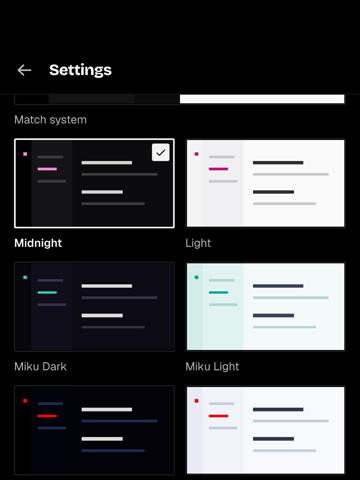
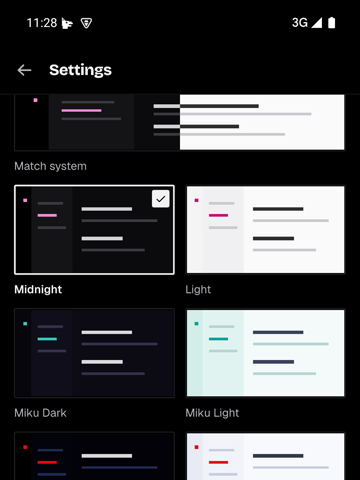
docs(desktop-native): 📝 record text size and bars for the qt settings

diff --git a/desktop-native/mobile/README.md b/desktop-native/mobile/README.md
@@ -27,14 +27,15 @@ that feel off, each with a known fix.
 - **Shared, one copy:** the `yap-ui` crate (`desktop-native/rust/crates/yap-ui`),
   which both apps link. It holds the `Yap.Ui` QML module (`Theme`,
   `ShellState`, `MessageDelegate`, `TreeRow`, `ServerIcon` and the
-  components they use: 36 files, 5,248 lines), the domain objects (`Session`, `Nav`,
+  components they use: 36 files, 5,408 lines), the domain objects (`Session`, `Nav`,
   `Chat`, `Voice`, `Profile` and the portable singletons such as `Admin`,
   `Emoji`, `Extras`, `Invites`, `Panels`), all 13 list models, the
   GUI-thread registry, the core's runtime and gateway, and the portable C++
   (`AnimatedPicture`, the icon and dither image providers). Together with
   the core, that is everything a row shows and every rule behind it.
-- **Per platform:** about 5,650 lines of QML (shell, pager, pages,
-  composer, upload tray, image viewer, the sheets and message actions, and
+- **Per platform:** about 7,400 lines of QML (shell, pager, pages,
+  composer, upload tray, image viewer, the sheets and message actions,
+  Settings and Friends, and
   the mobile side of four seams), about 720 lines of Rust (the app's
   `Platform`: TLS client, realtime, token store, and the HTTP behind Qt's
   own loads), and about 1,650 lines of C++/Java: the shim for back,
@@ -64,15 +65,15 @@ for any one surface (for example a call screen) if Qt ever falls short there.
 
 ## What is shared, what is per platform
 
-| Layer                         | Shared with desktop (unchanged)                                                                                                                                                                                                                                                                                                                       | Per platform                                                                                                                                                                                                                                                                                      |
-| ----------------------------- | ----------------------------------------------------------------------------------------------------------------------------------------------------------------------------------------------------------------------------------------------------------------------------------------------------------------------------------------------------- | ------------------------------------------------------------------------------------------------------------------------------------------------------------------------------------------------------------------------------------------------------------------------------------------------- |
-| Core                          | `yap-core`, `yap-cache`, `yap-realtime`, `yap-protocol`, `yap-anim`; `gateway.rs`                                                                                                                                                                                                                                                                     | TLS backend (rustls on mobile), the token store (an app-private file; Keystore in a release), the config and data folder handed in (`yap_mobile_init`)                                                                                                                                            |
-| Models and bridge objects     | yap-ui: every `QAbstractListModel` (servers, tree, messages, members, DMs, …), `Session`/`Nav`/`Chat`/`Voice`/`Profile` and the portable singletons, one definition for both apps; the registry and the order view updates apply in                                                                                                                   | The app's `Platform` (`yap_ui::platform`): HTTP client, realtime, token store, start and quit hooks, the view updates only it shows (toasts, sounds, badge), uploads, share sources, video. Desktop: `rust/src/native.rs`; mobile: `qt/rust/src/client.rs`                                        |
-| Theme tokens                  | `Theme.qml` (palettes, type roles, motion, spacing), `ShellState.qml`                                                                                                                                                                                                                                                                                 | Which theme (Settings' choice; Match system, the default, follows the light/dark mode), the text size factor (`Prefs`), and the input flags the shell binds: `Theme.touch`, `Theme.hoverUi`, `Theme.textScale`                                                                                                                                             |
-| Components and list delegates | `Yap.Ui`: `MessageDelegate` (the message renderer: grouping, replies, reactions, mention and pending rows, Markdown via Qt rich text), `TreeRow`, `ChannelRow`, `CategoryLabel`, `MemberRow`, `ServerIcon`, `RailPill`, `CountBadge`, `Avatar`, `DisplayName`, `Icon`, `IconKey`, `KitButton`, `Led`, `Spinner`, `LinkText`, `LazyPopup`, `Tooltip` … | Each app's side of the four seams the shared files import from `Yap.Platform`, with the same API: `EmbedCard`, `MessageMedia`, `VoiceStatusLine`, `VoiceStreamHoverCard` (mobile: `qt/rust/qml/seams`; desktop: its own `com.yap.native` files)                                                   |
-| C++                           | yap-ui `cpp/`: `AnimatedPicture` and `ViewportWatch` (GIF/APNG/WebP through yap-anim), the `icon` and `dither` image providers, `yap_ui_register(engine)`; `yap_ui.cmake` compiles them in each app's target                                                                                                                                          | `Native` (the platform shim) and `main.cpp`. The Windows C++ (window chrome, toasts, WebView2, Media Foundation, D3D11 video) stays desktop-only                                                                                                                                                  |
+| Layer                         | Shared with desktop (unchanged)                                                                                                                                                                                                                                                                                                                       | Per platform                                                                                                                                                                                                                                                                                                     |
+| ----------------------------- | ----------------------------------------------------------------------------------------------------------------------------------------------------------------------------------------------------------------------------------------------------------------------------------------------------------------------------------------------------- | ---------------------------------------------------------------------------------------------------------------------------------------------------------------------------------------------------------------------------------------------------------------------------------------------------------------- |
+| Core                          | `yap-core`, `yap-cache`, `yap-realtime`, `yap-protocol`, `yap-anim`; `gateway.rs`                                                                                                                                                                                                                                                                     | TLS backend (rustls on mobile), the token store (an app-private file; Keystore in a release), the config and data folder handed in (`yap_mobile_init`)                                                                                                                                                           |
+| Models and bridge objects     | yap-ui: every `QAbstractListModel` (servers, tree, messages, members, DMs, …), `Session`/`Nav`/`Chat`/`Voice`/`Profile` and the portable singletons, one definition for both apps; the registry and the order view updates apply in                                                                                                                   | The app's `Platform` (`yap_ui::platform`): HTTP client, realtime, token store, start and quit hooks, the view updates only it shows (toasts, sounds, badge), uploads, share sources, video. Desktop: `rust/src/native.rs`; mobile: `qt/rust/src/client.rs`                                                       |
+| Theme tokens                  | `Theme.qml` (palettes, type roles, motion, spacing), `ShellState.qml`                                                                                                                                                                                                                                                                                 | Which theme (Settings' choice; Match system, the default, follows the light/dark mode), the text size factor (`Prefs`), and the input flags the shell binds: `Theme.touch`, `Theme.hoverUi`, `Theme.textScale`                                                                                                   |
+| Components and list delegates | `Yap.Ui`: `MessageDelegate` (the message renderer: grouping, replies, reactions, mention and pending rows, Markdown via Qt rich text), `TreeRow`, `ChannelRow`, `CategoryLabel`, `MemberRow`, `ServerIcon`, `RailPill`, `CountBadge`, `Avatar`, `DisplayName`, `Icon`, `IconKey`, `KitButton`, `Led`, `Spinner`, `LinkText`, `LazyPopup`, `Tooltip` … | Each app's side of the four seams the shared files import from `Yap.Platform`, with the same API: `EmbedCard`, `MessageMedia`, `VoiceStatusLine`, `VoiceStreamHoverCard` (mobile: `qt/rust/qml/seams`; desktop: its own `com.yap.native` files)                                                                  |
+| C++                           | yap-ui `cpp/`: `AnimatedPicture` and `ViewportWatch` (GIF/APNG/WebP through yap-anim), the `icon` and `dither` image providers, `yap_ui_register(engine)`; `yap_ui.cmake` compiles them in each app's target                                                                                                                                          | `Native` (the platform shim) and `main.cpp`. The Windows C++ (window chrome, toasts, WebView2, Media Foundation, D3D11 video) stays desktop-only                                                                                                                                                                 |
 | Page layouts and navigation   | `ConnectionStrip`, `UnreadBanner`, `PresenceAvatar`, `GameLine` (moved into `Yap.Ui` for the phone pages; the desktop uses the same files)                                                                                                                                                                                                            | The pager and its pages (`Pager`, `DrawerPage`, `DmsPane`, `ChatPage`, `MembersPage`), the stacked `ProfilePage`, `SettingsPage` and `FriendsPage`, phone-sized rows where the desktop's are pointer-sized (`DmItem`, `MemberItem`, `AccountBar`), `PlatformList` (the platform's scroll feel). See "Navigation" |
-| Shell                         | —                                                                                                                                                                                                                                                                                                                                                     | `Main.qml` (edge to edge, phases, foreground/background), the Android manifest, the Java shim                                                                                                                                                                                                     |
+| Shell                         | —                                                                                                                                                                                                                                                                                                                                                     | `Main.qml` (edge to edge, phases, foreground/background), the Android manifest, the Java shim                                                                                                                                                                                                                    |
 
 ### How the sharing is built
 
@@ -117,7 +118,7 @@ One crate, one QML module, two consumers. No file is copied:
 | IME action, autocorrect           | **Native**: suggestions, auto-capitals and autocorrect come through Qt's input connection. `EnterKey.type` sets the action for a single-line field | Nothing for the action: Android gives a multi-line field no Send action, so the soft keyboard's Enter adds a line and the send key sends. With a hardware keyboard Enter sends and Shift+Enter adds a line                                                                                                                                                                                                                                 | Verified: suggestions, Enter adding a line, the send key. Not checked with a hardware keyboard                                                       |
 | Scroll physics, overscroll, fling | **Partly.** Qt's own rubber band, close to iOS's bounce. No Android stretch; fling speed and friction are Qt's defaults                            | `PlatformList`: the Android 12+ stretch emulated from `verticalOvershoot` (content stays put, scales from the far edge); fling speed and a friction matching `OverScroller`'s spline from `ViewConfiguration` via the shim                                                                                                                                                                                                                 | Fling verified by the scroll runs. The stretch is implemented but not yet compared frame by frame                                                    |
 | Haptics                           | **No.**                                                                                                                                            | Shim: `View.performHapticFeedback`. The policy: a long-press tick when the message sheet opens, a tick at the swipe-to-reply threshold and for a reaction, confirm on a confirmed delete, reject on a failed send. Nothing on a tap that navigates or a plain send (the pager ticks when a pan lands on another page)                                                                                                                      | Wired; the emulator has no vibrator to confirm it                                                                                                    |
-| System font, dynamic text size    | **Partly.** Qt's default font is the system's; explicit `pixelSize`s ignore the system text size                                                   | Shim reads `Configuration.fontScale` (`Native.fontScale`); `Main.qml` binds `Theme.textScale` to it (0.85 to 2.0). Every type role, its tracking and its line box scale with it, and the px sizes in the core's rich text; icons, avatars and hit areas do not                                                                                                                                                                             | Verified at 1.3: names, messages, times, rows and sheets scale and nothing clips. Read when the app returns to the front, not live                   |
+| System font, dynamic text size    | **Partly.** Qt's default font is the system's; explicit `pixelSize`s ignore the system text size                                                   | Shim reads `Configuration.fontScale` (`Native.fontScale`); `Main.qml` binds `Theme.textScale` to it times Settings' text size factor (0.85 to 2.0). Every type role, its tracking and its line box scale with it, and the px sizes in the core's rich text; icons, avatars and hit areas do not                                                                                                                                            | Verified at 1.3: names, messages, times, rows and sheets scale and nothing clips. Read when the app returns to the front, not live                   |
 | Dark mode, Material You           | **Native**: `Application.styleHints.colorScheme`, live                                                                                             | `Theme.themeId` follows it. The shim reads Material You's `system_accent1` (`Native.accent`)                                                                                                                                                                                                                                                                                                                                               | Light/dark verified. The accent is not used: Yap's themes are brand palettes (owner decision)                                                        |
 | Share sheet                       | **No** (Qt has `QDesktopServices` for URLs only)                                                                                                   | Shim: `ACTION_SEND` chooser, from the message sheet's Share                                                                                                                                                                                                                                                                                                                                                                                | Verified: the system sheet opens with the message's text                                                                                             |
 | Photo picker                      | **No.** Qt's `FileDialog` opens the documents UI                                                                                                   | Shim: the system photo picker (`ACTION_PICK_IMAGES`, no permission) on 13+, `GET_CONTENT` on images and videos before; each item copied into the cache for the core's path-based upload                                                                                                                                                                                                                                                    | Verified on API 35: three pictures picked, uploaded with progress, one retried, sent                                                                 |
@@ -579,12 +580,10 @@ desktop's objects with phone list layouts:
   `Main.qml` maps `system` to the light or dark mode, live. _Text size_: a
   factor (0.85, 1, 1.15, 1.3) over the system's font scale, kept in the
   app's QSettings (`Prefs.textFactor`); `Main.qml` binds
-  `Theme.textScale` to `clamp(Native.fontScale * factor, 0.85, 2)` when the
-  shared `Theme` has that property, and the section's sample is drawn at
-  the scale either way. _Notifications_ shows only when the shim exposes
-  `Native.notificationsEnabled` (the push work), and Text size only when
-  the shared `Theme` has `textScale` (the touch tokens' work); until then
-  the factor is kept but nothing shows it. _Devices_: the account's
+  `Theme.textScale` to `clamp(Native.fontScale * factor, 0.85, 2)`, and the
+  section's sample is a message row at that size. _Notifications_ shows
+  only when the shim exposes `Native.notificationsEnabled` (the push
+  work). _Devices_: the account's
   sessions (`Settings.loadSessions`); another device signs out after a
   confirm (`Extras.revokeSession`). _About_: the APK's version name, the
   licence and the privacy policy. _Sign out_ asks first, in place.
@@ -594,8 +593,9 @@ desktop's objects with phone list layouts:
   username. A friend's row opens the DM; anyone else's opens the profile.
   Requests carry Accept and Ignore or Cancel, a friend's more key opens
   Profile, Remove and Block in the row, a blocked row has Unblock. Remove,
-  Ignore, Cancel and Block confirm in place (`InlineConfirm`) until the
-  shared bottom sheet lands.
+  Ignore, Cancel and Block confirm in place (`InlineConfirm`, the desktop's
+  ConfirmStrip at phone size), where the request's progress and any
+  failure show; `ConfirmSheet` closes before the request answers.
 
 `SettingSwitch` and `TabRule` moved from the desktop's components into
 `Yap.Ui` for these pages; the desktop uses the same files.
@@ -609,19 +609,16 @@ the friendship), removed after the confirm, then a request sent from the
 phone's Add friend and accepted by the peer arriving live; Message opening
 the DM; Block from a friend's row (the account's list showed the block)
 and Unblock from the Blocked tab; Sign out returning to sign-in and a new
-device code signing in again. The factor was set and kept across a
-restart on a build where the section still showed. Not verified: the text
-factor's effect across the app (the shared `Theme.textScale` is not on
-main yet), the Notifications section (no push shim yet), signing out
-another device (the account had one session), and the licence links
-opening a browser. Known: the status
-bar's icons do not follow a theme that differs from the system's mode
-(dark icons on Midnight under a light system) until the shim's
-`Native.lightBars` lands; `Main.qml` binds it when present.
+device code signing in again; Larger scaling the chat's names, messages
+and times to 1.3 (the system at 1.0), and the status bar's icons turning
+light on Midnight under a light system. Not verified: the Notifications
+section (no push shim yet), signing out another device (the account had
+one session), and the licence links opening a browser.
 
 <p>
 <img src="docs/qt-settings.png" width="180" alt="Qt: Settings, account and status">
 <img src="docs/qt-settings-theme.png" width="180" alt="Qt: Settings in Midnight, the theme thumbnails">
+<img src="docs/qt-settings-larger.png" width="180" alt="Qt: the chat at the Larger text size">
 <img src="docs/qt-friends-pending.png" width="180" alt="Qt: Friends, an incoming request">
 <img src="docs/qt-friends-actions.png" width="180" alt="Qt: Friends, a friend's actions">
 </p>
